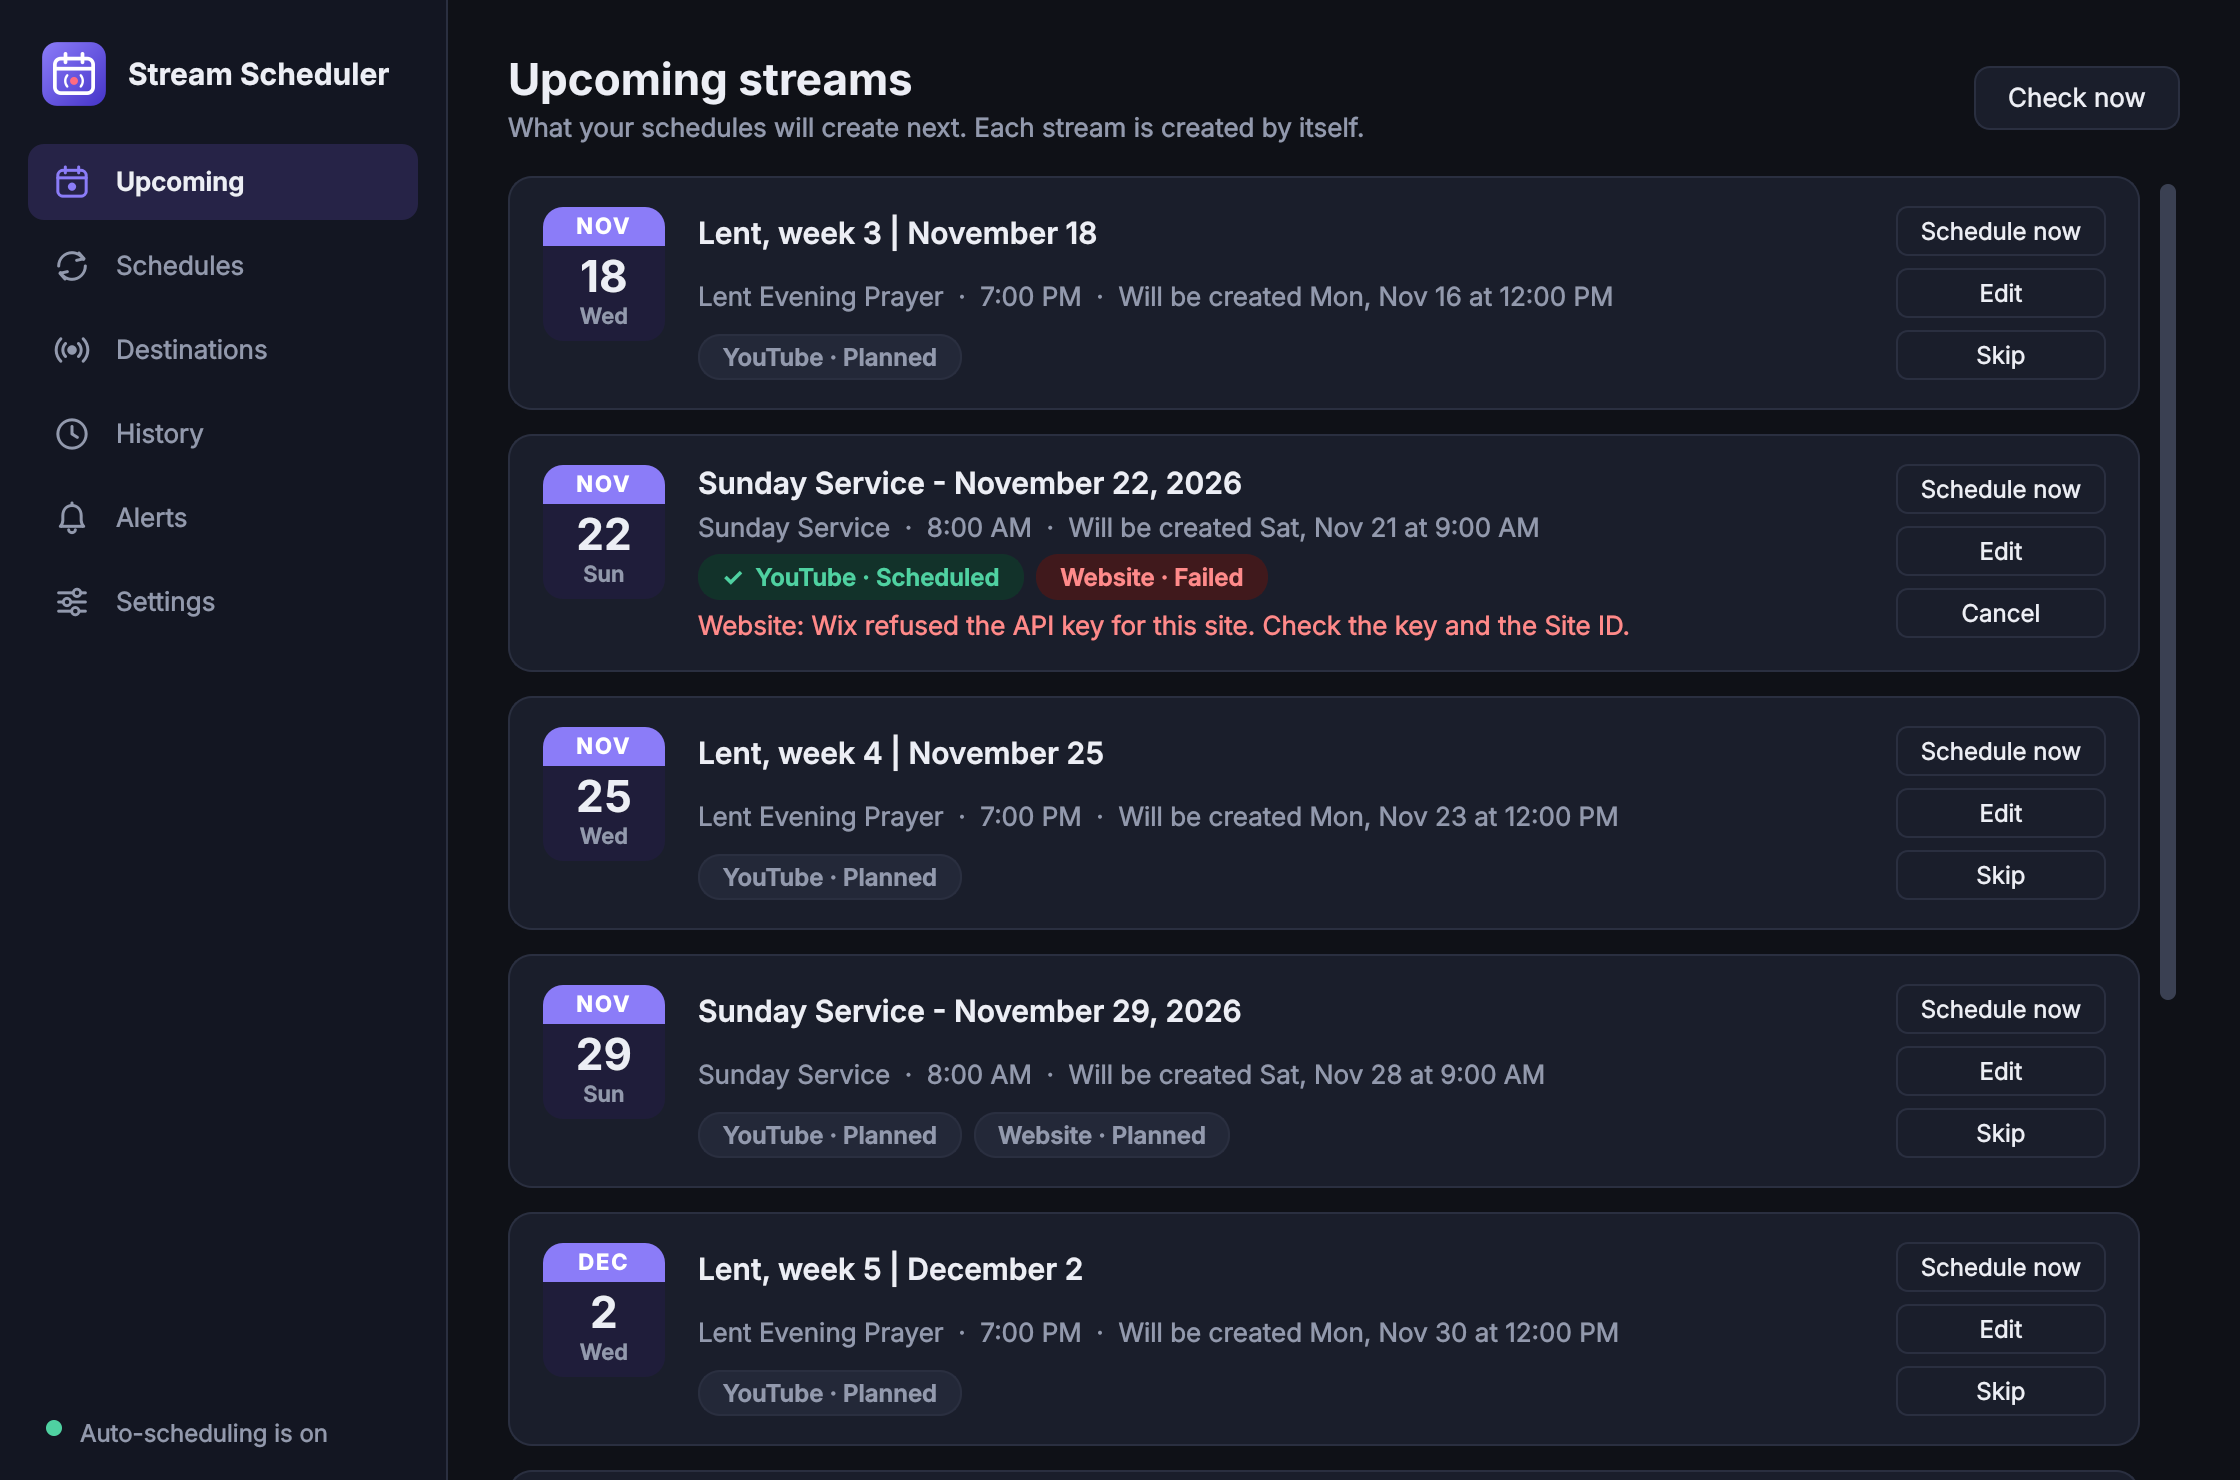
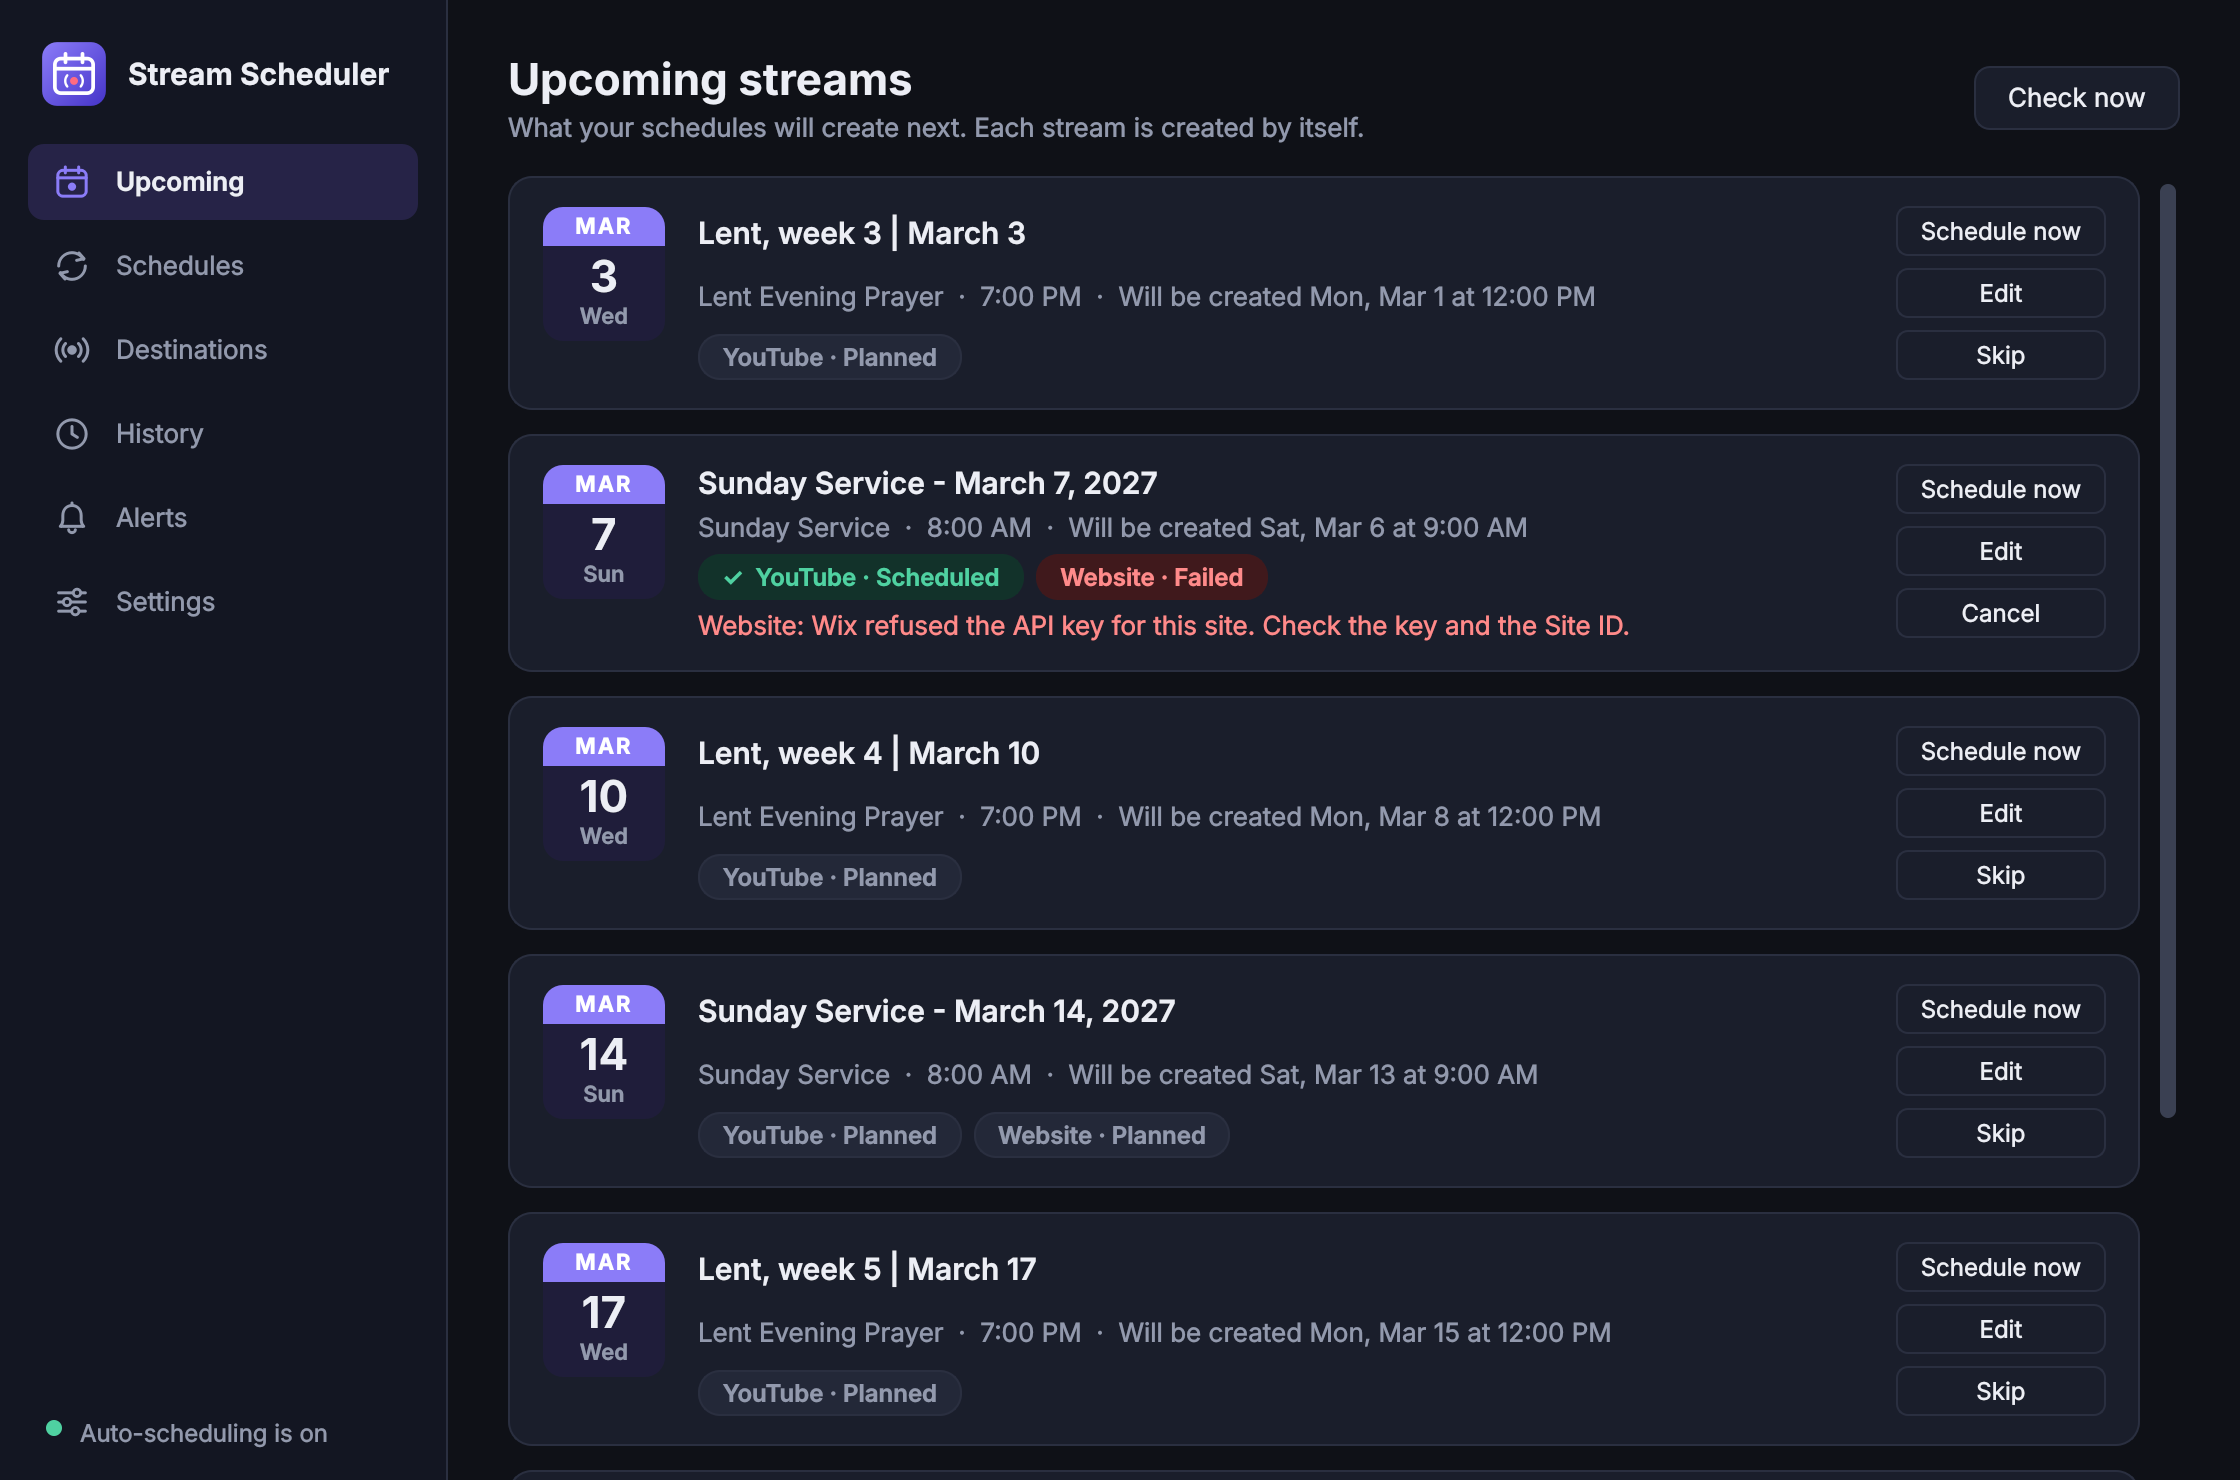
Put the demo's Lent series in Lent
The made-up Lent series now runs on the five Wednesdays between Ash
Wednesday and Holy Week of the current or next Lent, and the screenshot
tool takes its pictures as of a Sunday in Lent 2027. The website and
README screenshots are remade, and their example dates are real Sundays.

Claude-Session: https://claude.ai/code/session_017JJoC341h6vw51UB48JHih

diff --git a/docs/index.html b/docs/index.html
@@ -195,11 +195,11 @@
       <p class="cap">You write the title once</p>
       <p class="tpl">Sunday Service - <code>{date}</code></p>
       <ol aria-label="The streams the app creates from that title">
-        <li><span class="t">Sunday Service - <b>November 15, 2027</b></span>
+        <li><span class="t">Sunday Service - <b>March 7, 2027</b></span>
           <span class="w">Sun 8:00 AM</span><span class="s done">On YouTube</span></li>
-        <li><span class="t">Sunday Service - <b>November 22, 2027</b></span>
+        <li><span class="t">Sunday Service - <b>March 14, 2027</b></span>
           <span class="w">Sun 8:00 AM</span><span class="s">Will be created Sat 9:00 AM</span></li>
-        <li><span class="t">Sunday Service - <b>November 29, 2027</b></span>
+        <li><span class="t">Sunday Service - <b>March 21, 2027</b></span>
           <span class="w">Sun 8:00 AM</span><span class="s">Will be created Sat 9:00 AM</span></li>
       </ol>
     </div>

diff --git a/demo.py b/demo.py
@@ -1,10 +1,35 @@
 """Made-up data to show the windows without any account: used by `app.py --uitest` and tools/screenshots.py."""
-from datetime import datetime, timedelta
+from datetime import date, datetime, timedelta
 
 import engine
 
 
-def fill(store, vault):
+def easter(year):
+    """Easter Sunday of the Western churches (the Gregorian reckoning)."""
+    a, b, c = year % 19, year // 100, year % 100
+    d, e = b // 4, b % 4
+    g = (8 * b + 13) // 25
+    h = (19 * a + b - d - g + 15) % 30
+    i, k = c // 4, c % 4
+    m = (32 + 2 * e + 2 * i - h - k) % 7
+    n = (a + 11 * h + 19 * m) // 433
+    month = (h + m - 7 * n + 90) // 25
+    return date(year, month, (h + m - 7 * n + 33 * month + 19) % 32)
+
+
+def lent_midweeks(today):
+    """The first and last Wednesday evening of the Lent that is running or comes next: the five
+    Wednesdays between Ash Wednesday and Holy Week, which have their own services."""
+    for year in (today.year, today.year + 1):
+        ash_wednesday = easter(year) - timedelta(days=46)
+        first, last = ash_wednesday + timedelta(days=7), ash_wednesday + timedelta(days=35)
+        if today <= last:
+            return first, last
+
+
+def fill(store, vault, now=None):
+    now = now or datetime.now()
+    first_lent, last_lent = lent_midweeks(now.date())
     store.destinations.extend([
         {"id": "demo-yt", "kind": "youtube", "name": "Grace Community Church", "account_id": "UCdemo",
          "client_id": "demo.apps.googleusercontent.com",
@@ -22,15 +47,14 @@ def fill(store, vault):
          "destinations": ["demo-yt", "demo-fb"], "overrides": {}},
         {"id": "demo-s2", "name": "Lent Evening Prayer", "enabled": True, "weekdays": [2], "time": "19:00",
          "lead_days": 2, "create_time": "12:00", "title": "{series}, week {number} | {month} {day}",
-         "series": "Lent", "starts": (datetime.now() - timedelta(days=14)).strftime("%Y-%m-%d"),
-         "until": (datetime.now() + timedelta(days=28)).strftime("%Y-%m-%d"), "privacy": "unlisted",
+         "series": "Lent", "starts": first_lent.strftime("%Y-%m-%d"),
+         "until": last_lent.strftime("%Y-%m-%d"), "privacy": "unlisted",
          "description": "", "date_format": "long", "destinations": ["demo-yt"], "overrides": {}}])
     store.data["notify"] = {"channels": {"pushover": {"on": True},
                                          "email": {"on": True, "host": "smtp.example.org", "port": 587,
                                                    "security": "starttls", "user": "streams@example.org",
                                                    "to": "tech-team@example.org"}},
                             "events": {"summary": True}}
-    now = datetime.now()
     items = engine.upcoming(store, now)
     first = next(i for i in items if i["schedule"]["id"] == "demo-s1")
     first["schedule"]["overrides"][items[-1]["date"]] = {"skip": True}

diff --git a/tools/screenshots.py b/tools/screenshots.py
@@ -1,8 +1,13 @@
-"""Make the pictures of the README (docs/*.png) with made-up data, off screen.
-Run from the repository: python tools/screenshots.py"""
+"""Make the pictures of the README and the website with made-up data, off screen.
+Run from the repository: python tools/screenshots.py [folder]
+
+The pictures are taken as if it were TODAY, a Sunday in Lent, so that the made-up Lent series is under
+way and the dates agree with the church year whenever the script is run.
+"""
 import os
 import sys
 import tempfile
+from datetime import datetime
 
 root = os.path.dirname(os.path.dirname(os.path.abspath(__file__)))
 sys.path.insert(0, root)
@@ -16,6 +21,29 @@ from mainwindow import MainWindow  # noqa: E402
 from store import Store  # noqa: E402
 from vault import MemoryVault  # noqa: E402
 from wizards import WixWizard, YouTubeWizard  # noqa: E402
+from PySide6.QtCore import QDate  # noqa: E402
+
+TODAY = datetime(2027, 2, 28, 14, 46)   # the second Sunday in Lent (Easter 2027 is March 28)
+
+
+class _Now(datetime):
+    @classmethod
+    def now(cls, tz=None):
+        return TODAY
+
+
+class _Today(QDate):
+    @staticmethod
+    def currentDate():
+        return QDate(TODAY.year, TODAY.month, TODAY.day)
+
+
+for module in list(sys.modules.values()):   # the app's own modules ask these for the time
+    if os.path.dirname(getattr(module, "__file__", None) or "") == root:
+        if getattr(module, "datetime", None) is datetime:
+            module.datetime = _Now
+        if getattr(module, "QDate", None) is QDate:
+            module.QDate = _Today
 
 out = sys.argv[1] if len(sys.argv) > 1 else os.path.join(root, "docs")
 os.makedirs(out, exist_ok=True)
@@ -23,7 +51,7 @@ for theme in ("dark", "light"):
     store, vault = Store(), MemoryVault()
     store.destinations.clear(), store.schedules.clear(), store.history.clear()
     app = ui.start_app(sys.argv[:1], theme)
-    demo.fill(store, vault)
+    demo.fill(store, vault, TODAY)
     window = MainWindow(store, vault, background=False)
     window.resize(1120, 740)
     shots = []

diff --git a/README.md b/README.md
@@ -14,7 +14,7 @@ stream already in the title, shows the coming stream on your website, and tells 
 
 - **Schedules that repeat.** "Every Sunday at 8:00 AM, created the Saturday before at 9:00 AM." Choose
   for each schedule which of your destinations it goes to.
-- **Titles that fill in the date.** `Sunday Service - {date}` becomes *Sunday Service - November 15,
+- **Titles that fill in the date.** `Sunday Service - {date}` becomes *Sunday Service - March 7,
   2027* for that Sunday's stream. Also `{weekday}`, `{month}`, `{day}`, `{year}` and `{time}`, in the
   title and the description, with a choice of date formats.
 - **One-time streams and series.** A schedule can be for a single date, such as Christmas Eve, or
